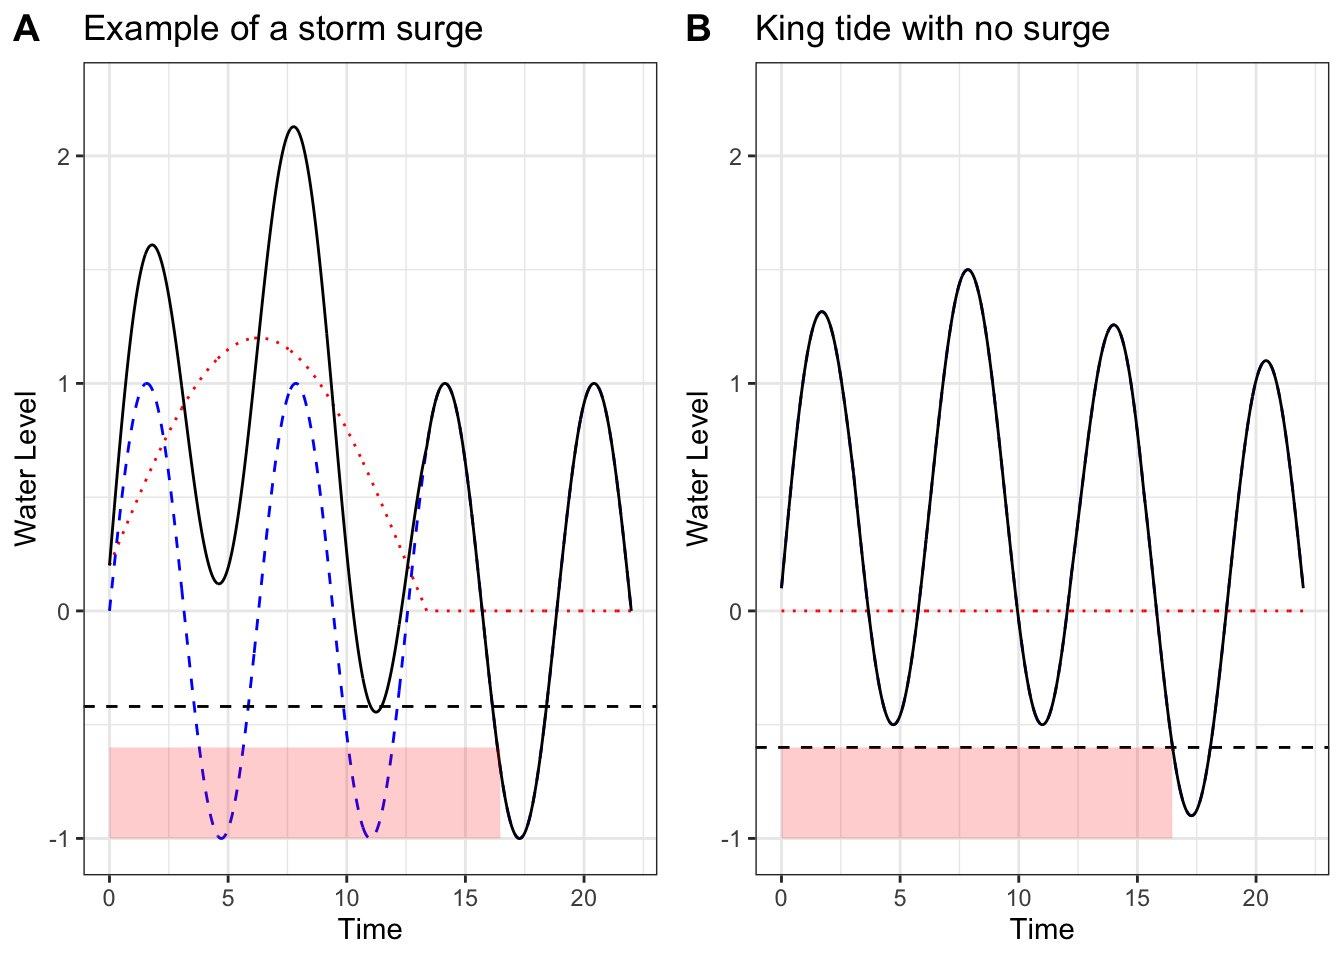
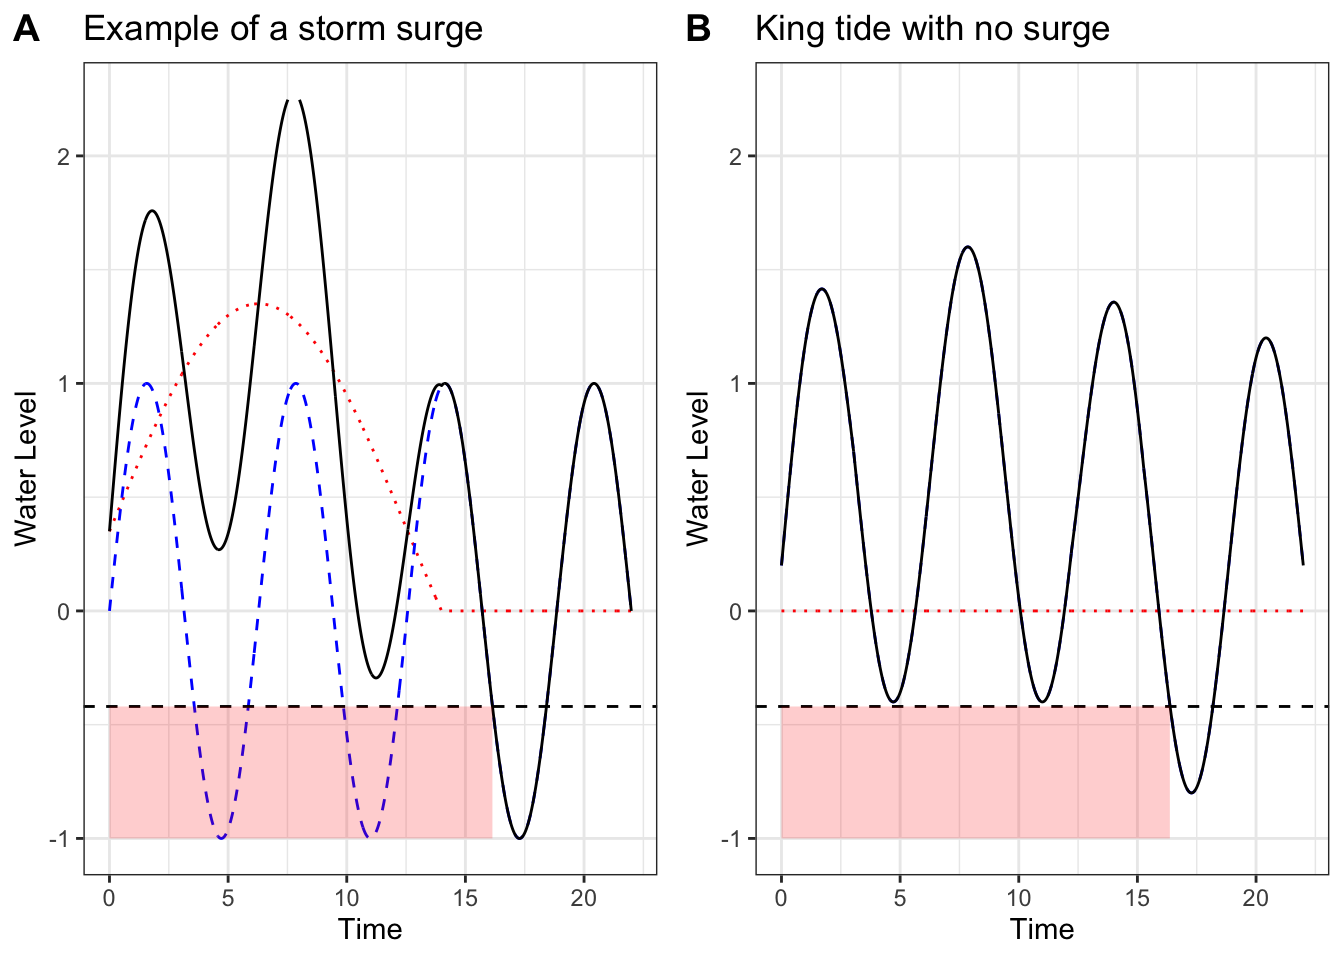
Edits

diff --git a/docs/surge_climatology.html b/docs/surge_climatology.html
@@ -384,7 +384,7 @@ div.section {
 
 <p>
 <button type="button" class="btn btn-default btn-workflowr btn-workflowr-report" data-toggle="collapse" data-target="#workflowr-report">
-<span class="glyphicon glyphicon-list" aria-hidden="true"></span> workflowr <span class="glyphicon glyphicon-ok text-success" aria-hidden="true"></span>
+<span class="glyphicon glyphicon-list" aria-hidden="true"></span> workflowr <span class="glyphicon glyphicon-exclamation-sign text-danger" aria-hidden="true"></span>
 </button>
 </p>
 <div id="workflowr-report" class="collapse">
@@ -393,7 +393,7 @@ div.section {
 <a data-toggle="tab" href="#summary">Summary</a>
 </li>
 <li>
-<a data-toggle="tab" href="#checks"> Checks <span class="glyphicon glyphicon-ok text-success" aria-hidden="true"></span> </a>
+<a data-toggle="tab" href="#checks"> Checks <span class="glyphicon glyphicon-exclamation-sign text-danger" aria-hidden="true"></span> </a>
 </li>
 <li>
 <a data-toggle="tab" href="#versions">Past versions</a>
@@ -405,7 +405,7 @@ div.section {
 <strong>Last updated:</strong> 2019-09-26
 </p>
 <p>
-<strong>Checks:</strong> <span class="glyphicon glyphicon-ok text-success" aria-hidden="true"></span> 7 <span class="glyphicon glyphicon-exclamation-sign text-danger" aria-hidden="true"></span> 0
+<strong>Checks:</strong> <span class="glyphicon glyphicon-ok text-success" aria-hidden="true"></span> 6 <span class="glyphicon glyphicon-exclamation-sign text-danger" aria-hidden="true"></span> 1
 </p>
 <p>
 <strong>Knit directory:</strong> <code>NWO_Project/</code> <span class="glyphicon glyphicon-question-sign" aria-hidden="true" title="This is the local directory in which the code in this file was executed."> </span>
@@ -421,12 +421,12 @@ This reproducible <a href="http://rmarkdown.rstudio.com">R Markdown</a> analysis
 <div class="panel panel-default">
 <div class="panel-heading">
 <p class="panel-title">
-<a data-toggle="collapse" data-parent="#workflowr-checks" href="#strongRMarkdownfilestronguptodate"> <span class="glyphicon glyphicon-ok text-success" aria-hidden="true"></span> <strong>R Markdown file:</strong> up-to-date </a>
+<a data-toggle="collapse" data-parent="#workflowr-checks" href="#strongRMarkdownfilestronguncommittedchanges"> <span class="glyphicon glyphicon-exclamation-sign text-danger" aria-hidden="true"></span> <strong>R Markdown file:</strong> uncommitted changes </a>
 </p>
 </div>
-<div id="strongRMarkdownfilestronguptodate" class="panel-collapse collapse">
+<div id="strongRMarkdownfilestronguncommittedchanges" class="panel-collapse collapse">
 <div class="panel-body">
-<p>Great! Since the R Markdown file has been committed to the Git repository, you know the exact version of the code that produced these results.</p>
+<p>The R Markdown file has unstaged changes. To know which version of the R Markdown file created these results, you’ll want to first commit it to the Git repo. If you’re still working on the analysis, you can ignore this warning. When you’re finished, you can run <code>wflow_publish</code> to commit the R Markdown file and build the HTML.</p>
 </div>
 </div>
 </div>
@@ -493,10 +493,10 @@ This reproducible <a href="http://rmarkdown.rstudio.com">R Markdown</a> analysis
 <div class="panel panel-default">
 <div class="panel-heading">
 <p class="panel-title">
-<a data-toggle="collapse" data-parent="#workflowr-checks" href="#strongRepositoryversionstrongahrefhttpsgithubcomkaterobsauNWOProjecttree7120f6611aabdf553d5d84d2ef10fd1aa2160590targetblank7120f66a"> <span class="glyphicon glyphicon-ok text-success" aria-hidden="true"></span> <strong>Repository version:</strong> <a href="https://github.com/katerobsau/NWO_Project/tree/7120f6611aabdf553d5d84d2ef10fd1aa2160590" target="_blank">7120f66</a> </a>
+<a data-toggle="collapse" data-parent="#workflowr-checks" href="#strongRepositoryversionstrongahrefhttpsgithubcomkaterobsauNWOProjecttreee4946eedfa9685e99b71d6a6b8ee742b53fc4465targetblanke4946eea"> <span class="glyphicon glyphicon-ok text-success" aria-hidden="true"></span> <strong>Repository version:</strong> <a href="https://github.com/katerobsau/NWO_Project/tree/e4946eedfa9685e99b71d6a6b8ee742b53fc4465" target="_blank">e4946ee</a> </a>
 </p>
 </div>
[2 lines of base64/hex data omitted]
 <div class="panel-body">
 <p>
 Great! You are using Git for version control. Tracking code development and connecting the code version to the results is critical for reproducibility. The version displayed above was the version of the Git repository at the time these results were generated. <br><br> Note that you need to be careful to ensure that all relevant files for the analysis have been committed to Git prior to generating the results (you can use <code>wflow_publish</code> or <code>wflow_git_commit</code>). workflowr only checks the R Markdown file, but you know if there are other scripts or data files that it depends on. Below is the status of the Git repository when the results were generated:
@@ -517,6 +517,10 @@ Ignored files:
     Ignored:    code/tidalHelpers/man/
     Ignored:    data/.DS_Store
     Ignored:    docs/assets/
+
+Unstaged changes:
+    Modified:   analysis/compound-event-definition.Rmd
+    Modified:   analysis/surge_climatology.Rmd
 
 </code></pre>
 <p>
@@ -555,6 +559,23 @@ Message
 </tr>
 </thead>
 <tbody>
+<tr>
+<td>
+html
+</td>
+<td>
+<a href="https://rawcdn.githack.com/katerobsau/NWO_Project/e4946eedfa9685e99b71d6a6b8ee742b53fc4465/docs/surge_climatology.html" target="_blank">e4946ee</a>
+</td>
+<td>
+katerobsau
+</td>
+<td>
+2019-09-26
+</td>
+<td>
+Build site.
+</td>
+</tr>
 <tr>
 <td>
 Rmd
@@ -936,10 +957,9 @@ code/*
 </div>
 </div>
 </div>
-<p><strong>WORK IN PROGRESS</strong></p>
 <p>In this section, the available observational data is visualised and the conditions when the sluice is not operational are examined.</p>
-<div id="observations" class="section level2">
-<h2>Observations</h2>
+<div id="harlingen-observations" class="section level2">
+<h2>Harlingen Observations</h2>
 <p>The following table displays the observed data at the Harlingen station. The storm surge is obtained by subtracting the harmonic tide from the observed sea level, see Figure NULL 1.</p>
 <pre><code>[1] &quot;Check this&quot;</code></pre>
 <pre><code>[1] &quot;Note: Should add handling of NA Surge values into preprocessing&quot;</code></pre>
@@ -1169,8 +1189,7 @@ katerobsau
 </div>
 <div id="longest-periods-above-the-threshold" class="section level2">
 <h2>Longest Periods above the Threshold</h2>
-<p>The four longest periods when the sluice was not operational are shown in the below figure. We observe in Figure B there is a problem with the underlying data.</p>
-<pre><code>[1] &quot;Note: Wrap repition of plots in a function&quot;</code></pre>
+<p>The four longest periods when the sluice was not operational are shown in the below figure. We observe in Figure B there is a problem with the underlying data, however during this period the sluice was operational due to surge as the plot indicates.</p>
 <p><img src="figure/surge_climatology.Rmd/sluiceExamples-1.png" width="672" style="display: block; margin: auto;" /></p>
 <p>
 <button type="button" class="btn btn-default btn-xs btn-workflowr btn-workflowr-fig" data-toggle="collapse" data-target="#fig-sluiceExamples-1">
@@ -1234,7 +1253,7 @@ katerobsau
 </div>
 <div id="highest-surges-on-record" class="section level2">
 <h2>Highest Surges on Record</h2>
-<p>The four highest surges are shown in the below Figure. There is not a one-to-one correspondance with the highest surge events and the longest events that pose flood risk.</p>
+<p>The four highest surges are shown in the below Figure. There is not a one-to-one correspondance with the highest surge events and the longest duration events where the sluice was unable to be operated to prevent flood risk.</p>
 <p><img src="figure/surge_climatology.Rmd/highestSurges-1.png" width="672" style="display: block; margin: auto;" /></p>
 <p>
 <button type="button" class="btn btn-default btn-xs btn-workflowr btn-workflowr-fig" data-toggle="collapse" data-target="#fig-highestSurges-1">
@@ -1287,7 +1306,6 @@ katerobsau
 </div>
 <div id="relationship-between-duration-and-surge" class="section level2">
 <h2>Relationship between Duration and Surge</h2>
-<pre><code>Warning: Removed 1151 rows containing missing values (geom_point).</code></pre>
 <p><img src="figure/surge_climatology.Rmd/unnamed-chunk-1-1.png" width="672" style="display: block; margin: auto;" /></p>
 <p>
 <button type="button" class="btn btn-default btn-xs btn-workflowr btn-workflowr-fig" data-toggle="collapse" data-target="#fig-unnamed-chunk-1-1">
@@ -1327,7 +1345,7 @@ katerobsau
 </div>
 </div>
 <p>As the period that the external water level exceeds -0.42 m increases, there is not a strong correlation with an increase in the surge height. This suggests that the important factor for flood mitigation in the instance of the sluice operation, is not infact surge height, but the time period spent above the risk threshold. This is in contrast to the many frameworks who consider the problem of compound events from the perspective of heavy rainfall and high surge combination.</p>
-<p>We note that the duration is a continuous random variable, but that due to the underlying influence of the tidal cycle, that the duration values appear binned. This is because the risk period above the threshold often corresponds with the rising tide and the end of the risk period with the outgoing tide. The difference between these cycles is roughly a factor of 12 hours.</p>
+<p>We note that although the duration is a continuous random variable, the duration values appear binned due to the underlying influence of the tidal cycle. This is because the period above the risk threshold often corresponds with the rising tide and the end of the risk period with the outgoing tide with some additional variability due to the surge. The difference between these cycles is roughly a 12 hours.</p>
 </div>
 <div id="surge-duration" class="section level2">
 <h2>Surge duration</h2>
@@ -1357,6 +1375,17 @@ Date
 <tbody>
 <tr>
 <td>
+<a href="https://github.com/katerobsau/NWO_Project/blob/e4946eedfa9685e99b71d6a6b8ee742b53fc4465/docs/figure/surge_climatology.Rmd/clustersSur-1.png" target="_blank">e4946ee</a>
+</td>
+<td>
+katerobsau
+</td>
+<td>
+2019-09-26
+</td>
+</tr>
+<tr>
+<td>
 <a href="https://github.com/katerobsau/NWO_Project/blob/aac6065bf4e5f2dc12e63f9eca1b1276eb39aae5/docs/figure/surge_climatology.Rmd/clustersSur-1.png" target="_blank">aac6065</a>
 </td>
 <td>
@@ -1381,6 +1410,15 @@ katerobsau
 </table>
 </div>
 </div>
+<!-- ```{r} -->
+<!-- duration_vs_sur2 <- ggplot(plot_clusters_sur %>% filter(sur > 0.01)) +  -->
+<!--   geom_point(aes(x = time@hour*risk, y = sur), size = 0.75) + #time@hour -->
+<!--   scale_color_distiller("Percentage", palette = "RdBu") + -->
+<!--   theme_bw() +  -->
+<!--   xlab("Duration above the risk threshold during the Storm Surge") +  -->
+<!--   ylab("Surge Height")  -->
+<!-- duration_vs_sur2 -->
+<!-- ``` -->
 <!-- ## To Do: -->
 <!-- Ideally also like to wrap plotting code, and to fix dates on axes. -->
 <br>

diff --git a/docs/compound-event-definition.html b/docs/compound-event-definition.html
@@ -384,7 +384,7 @@ div.section {
 
 <p>
 <button type="button" class="btn btn-default btn-workflowr btn-workflowr-report" data-toggle="collapse" data-target="#workflowr-report">
-<span class="glyphicon glyphicon-list" aria-hidden="true"></span> workflowr <span class="glyphicon glyphicon-ok text-success" aria-hidden="true"></span>
+<span class="glyphicon glyphicon-list" aria-hidden="true"></span> workflowr <span class="glyphicon glyphicon-exclamation-sign text-danger" aria-hidden="true"></span>
 </button>
 </p>
 <div id="workflowr-report" class="collapse">
@@ -393,7 +393,7 @@ div.section {
 <a data-toggle="tab" href="#summary">Summary</a>
 </li>
 <li>
-<a data-toggle="tab" href="#checks"> Checks <span class="glyphicon glyphicon-ok text-success" aria-hidden="true"></span> </a>
+<a data-toggle="tab" href="#checks"> Checks <span class="glyphicon glyphicon-exclamation-sign text-danger" aria-hidden="true"></span> </a>
 </li>
 <li>
 <a data-toggle="tab" href="#versions">Past versions</a>
@@ -405,7 +405,7 @@ div.section {
 <strong>Last updated:</strong> 2019-09-26
 </p>
 <p>
-<strong>Checks:</strong> <span class="glyphicon glyphicon-ok text-success" aria-hidden="true"></span> 7 <span class="glyphicon glyphicon-exclamation-sign text-danger" aria-hidden="true"></span> 0
+<strong>Checks:</strong> <span class="glyphicon glyphicon-ok text-success" aria-hidden="true"></span> 6 <span class="glyphicon glyphicon-exclamation-sign text-danger" aria-hidden="true"></span> 1
 </p>
 <p>
 <strong>Knit directory:</strong> <code>NWO_Project/</code> <span class="glyphicon glyphicon-question-sign" aria-hidden="true" title="This is the local directory in which the code in this file was executed."> </span>
@@ -421,12 +421,12 @@ This reproducible <a href="http://rmarkdown.rstudio.com">R Markdown</a> analysis
 <div class="panel panel-default">
 <div class="panel-heading">
 <p class="panel-title">
-<a data-toggle="collapse" data-parent="#workflowr-checks" href="#strongRMarkdownfilestronguptodate"> <span class="glyphicon glyphicon-ok text-success" aria-hidden="true"></span> <strong>R Markdown file:</strong> up-to-date </a>
+<a data-toggle="collapse" data-parent="#workflowr-checks" href="#strongRMarkdownfilestronguncommittedchanges"> <span class="glyphicon glyphicon-exclamation-sign text-danger" aria-hidden="true"></span> <strong>R Markdown file:</strong> uncommitted changes </a>
 </p>
 </div>
-<div id="strongRMarkdownfilestronguptodate" class="panel-collapse collapse">
+<div id="strongRMarkdownfilestronguncommittedchanges" class="panel-collapse collapse">
 <div class="panel-body">
-<p>Great! Since the R Markdown file has been committed to the Git repository, you know the exact version of the code that produced these results.</p>
+<p>The R Markdown file has unstaged changes. To know which version of the R Markdown file created these results, you’ll want to first commit it to the Git repo. If you’re still working on the analysis, you can ignore this warning. When you’re finished, you can run <code>wflow_publish</code> to commit the R Markdown file and build the HTML.</p>
 </div>
 </div>
 </div>
@@ -493,10 +493,10 @@ This reproducible <a href="http://rmarkdown.rstudio.com">R Markdown</a> analysis
 <div class="panel panel-default">
 <div class="panel-heading">
 <p class="panel-title">
-<a data-toggle="collapse" data-parent="#workflowr-checks" href="#strongRepositoryversionstrongahrefhttpsgithubcomkaterobsauNWOProjecttree7120f6611aabdf553d5d84d2ef10fd1aa2160590targetblank7120f66a"> <span class="glyphicon glyphicon-ok text-success" aria-hidden="true"></span> <strong>Repository version:</strong> <a href="https://github.com/katerobsau/NWO_Project/tree/7120f6611aabdf553d5d84d2ef10fd1aa2160590" target="_blank">7120f66</a> </a>
+<a data-toggle="collapse" data-parent="#workflowr-checks" href="#strongRepositoryversionstrongahrefhttpsgithubcomkaterobsauNWOProjecttreee4946eedfa9685e99b71d6a6b8ee742b53fc4465targetblanke4946eea"> <span class="glyphicon glyphicon-ok text-success" aria-hidden="true"></span> <strong>Repository version:</strong> <a href="https://github.com/katerobsau/NWO_Project/tree/e4946eedfa9685e99b71d6a6b8ee742b53fc4465" target="_blank">e4946ee</a> </a>
 </p>
 </div>
[2 lines of base64/hex data omitted]
 <div class="panel-body">
 <p>
 Great! You are using Git for version control. Tracking code development and connecting the code version to the results is critical for reproducibility. The version displayed above was the version of the Git repository at the time these results were generated. <br><br> Note that you need to be careful to ensure that all relevant files for the analysis have been committed to Git prior to generating the results (you can use <code>wflow_publish</code> or <code>wflow_git_commit</code>). workflowr only checks the R Markdown file, but you know if there are other scripts or data files that it depends on. Below is the status of the Git repository when the results were generated:
@@ -517,6 +517,9 @@ Ignored files:
     Ignored:    code/tidalHelpers/man/
     Ignored:    data/.DS_Store
     Ignored:    docs/assets/
+
+Unstaged changes:
+    Modified:   analysis/compound-event-definition.Rmd
 
 </code></pre>
 <p>
@@ -555,6 +558,23 @@ Message
 </tr>
 </thead>
 <tbody>
+<tr>
+<td>
+html
+</td>
+<td>
+<a href="https://rawcdn.githack.com/katerobsau/NWO_Project/e4946eedfa9685e99b71d6a6b8ee742b53fc4465/docs/compound-event-definition.html" target="_blank">e4946ee</a>
+</td>
+<td>
+katerobsau
+</td>
+<td>
+2019-09-26
+</td>
+<td>
+Build site.
+</td>
+</tr>
 <tr>
 <td>
 Rmd
@@ -1102,8 +1122,15 @@ katerobsau
 </div>
 <div id="navigation-links" class="section level2">
 <h2>Navigation Links</h2>
-<p>Continue to background information about the <a href="details-on-tidal-summaries.html">Tidal Data</a><br />
-Continue to analysis about tidal climate <a href="surge_climatology.html">Surge Climatology</a></p>
+<ul>
+<li><a href="index.html">Project Overview</a><br />
+</li>
+<li><a href="details-on-tidal-summaries.html">Sea Level Metadata and Preprocessing</a><br />
+</li>
+<li><a href="details-on-rainfall-data.html">Rainfall Metadata and Preprocessing</a><br />
+</li>
+<li><a href="surge_climatology.html">Surge Climatology</a></li>
+</ul>
 <br>
 <p>
 <button type="button" class="btn btn-default btn-workflowr btn-workflowr-sessioninfo" data-toggle="collapse" data-target="#workflowr-sessioninfo" style="display: block;">
